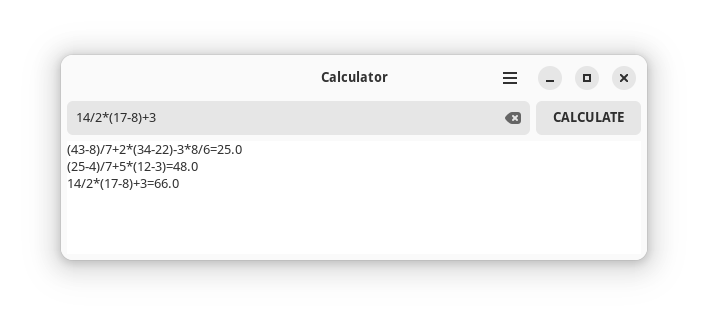
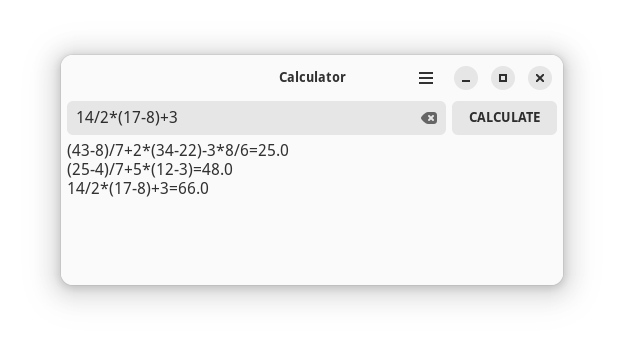
Add files via upload

Changed region(s): [[0.0913, 0.1529, 0.9135, 0.8257]]

diff --git a/src/window.py b/src/window.py
@@ -53,9 +53,10 @@ class CalculatorWindow(Adw.ApplicationWindow):
         self.add_controller(event_controller)
 
         css_provider = Gtk.CssProvider()
-        css_provider.load_from_string('.text_size {font-size: 16px}')
+        css_provider.load_from_string('.text_size {font-size: 16px;}')
         Gtk.StyleContext.add_provider_for_display(Gdk.Display.get_default(), css_provider, Gtk.STYLE_PROVIDER_PRIORITY_APPLICATION)
 
+        self.entry.set_css_classes(["text_size"])
         self.text_view.set_css_classes(["text_size"])
 
     def on_key_released(self, event, keyval, keycode, state):
